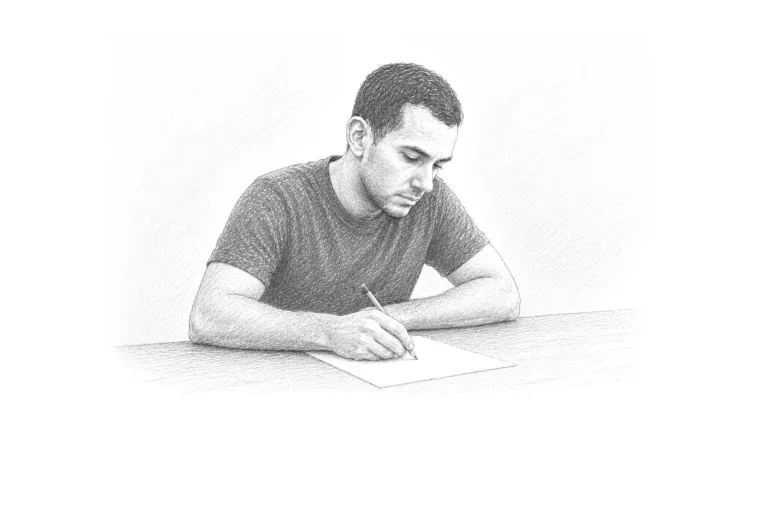
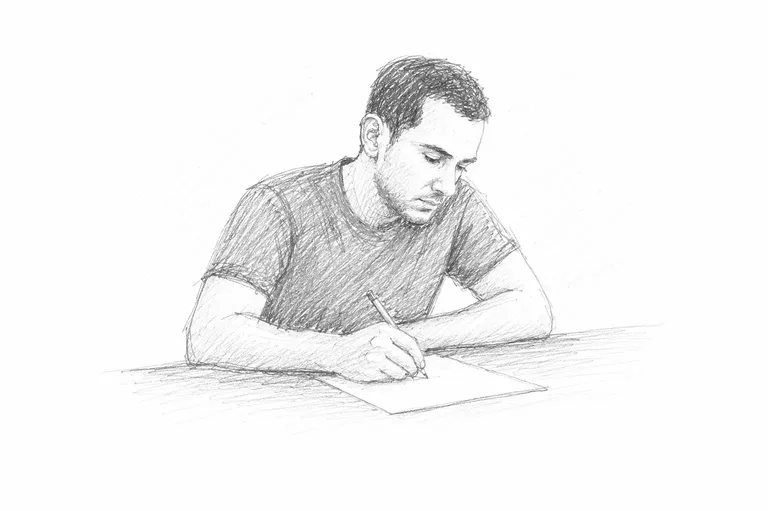
Update contact illustration

Changed region(s): [[0.1562, 0.0881, 0.7812, 0.7926], [0.5938, 0.7339, 0.7188, 0.7926], [0.4688, 0.7926, 0.5938, 0.8219]]

diff --git a/contact.html b/contact.html
@@ -32,8 +32,8 @@
       </div>
       <div class="contact-video">
         <picture>
-          <source media="(max-width: 800px)" srcset="images/contact/contact-portrait-768.webp?v=20260818e" type="image/webp">
-          <img src="images/contact/contact-portrait.webp?v=20260818e" width="1537" height="1023" alt="Carlos Tarrats writing on a sheet of paper" fetchpriority="high">
+          <source media="(max-width: 800px)" srcset="images/contact/contact-portrait-768.webp?v=20260818f" type="image/webp">
+          <img src="images/contact/contact-portrait.webp?v=20260818f" width="1537" height="1023" alt="Carlos Tarrats writing on a sheet of paper" fetchpriority="high">
         </picture>
       </div>
     </div>
